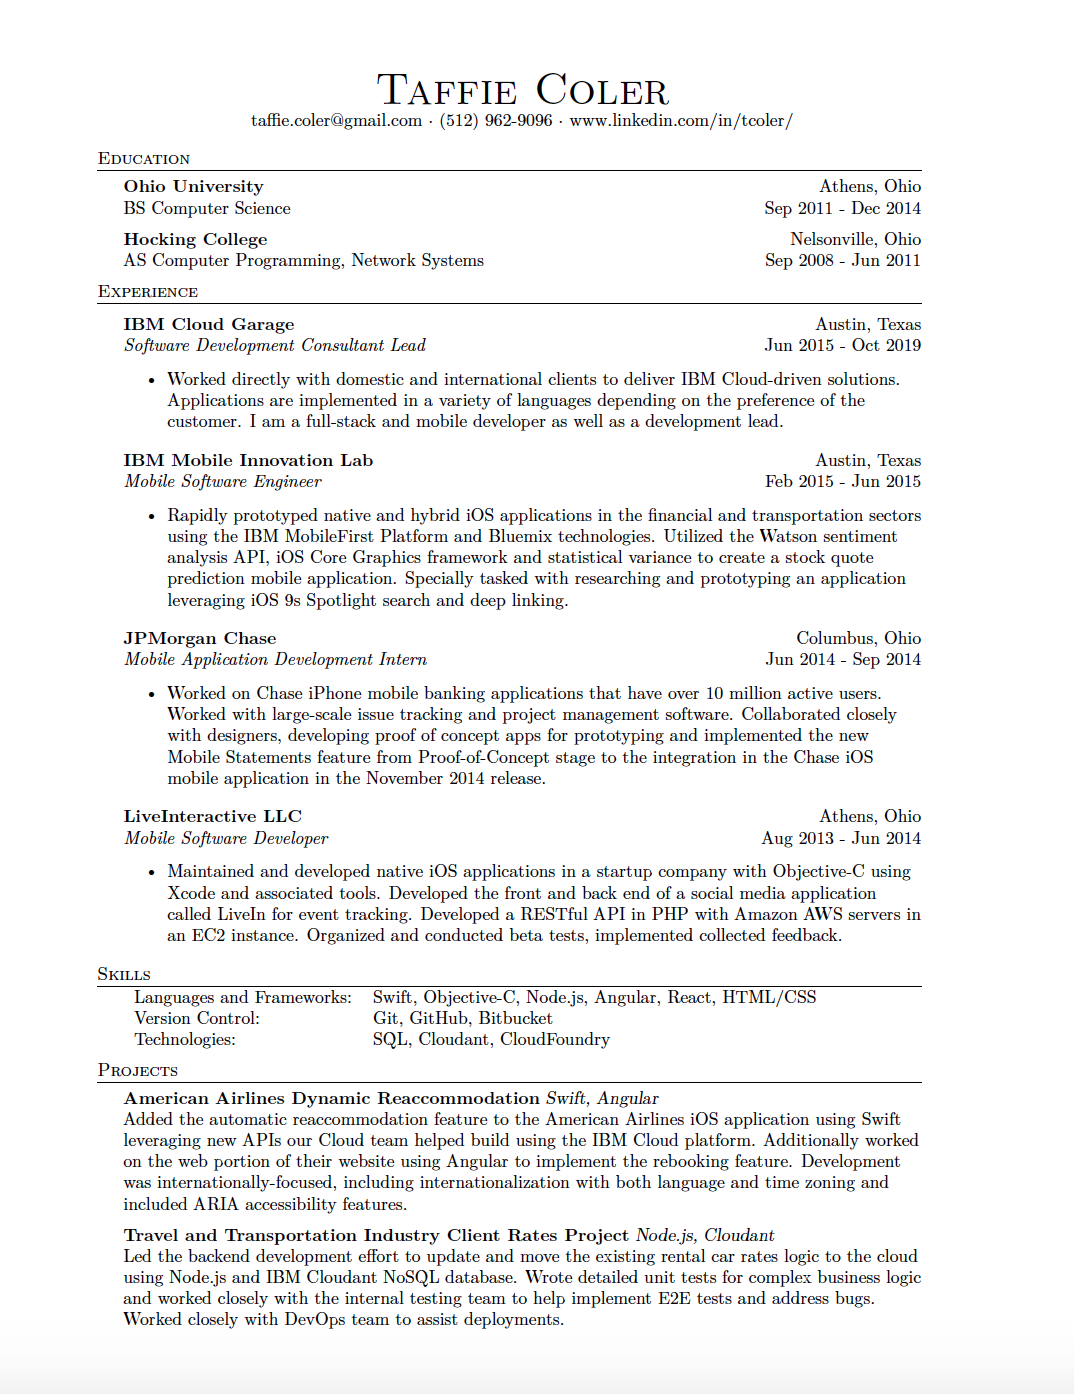
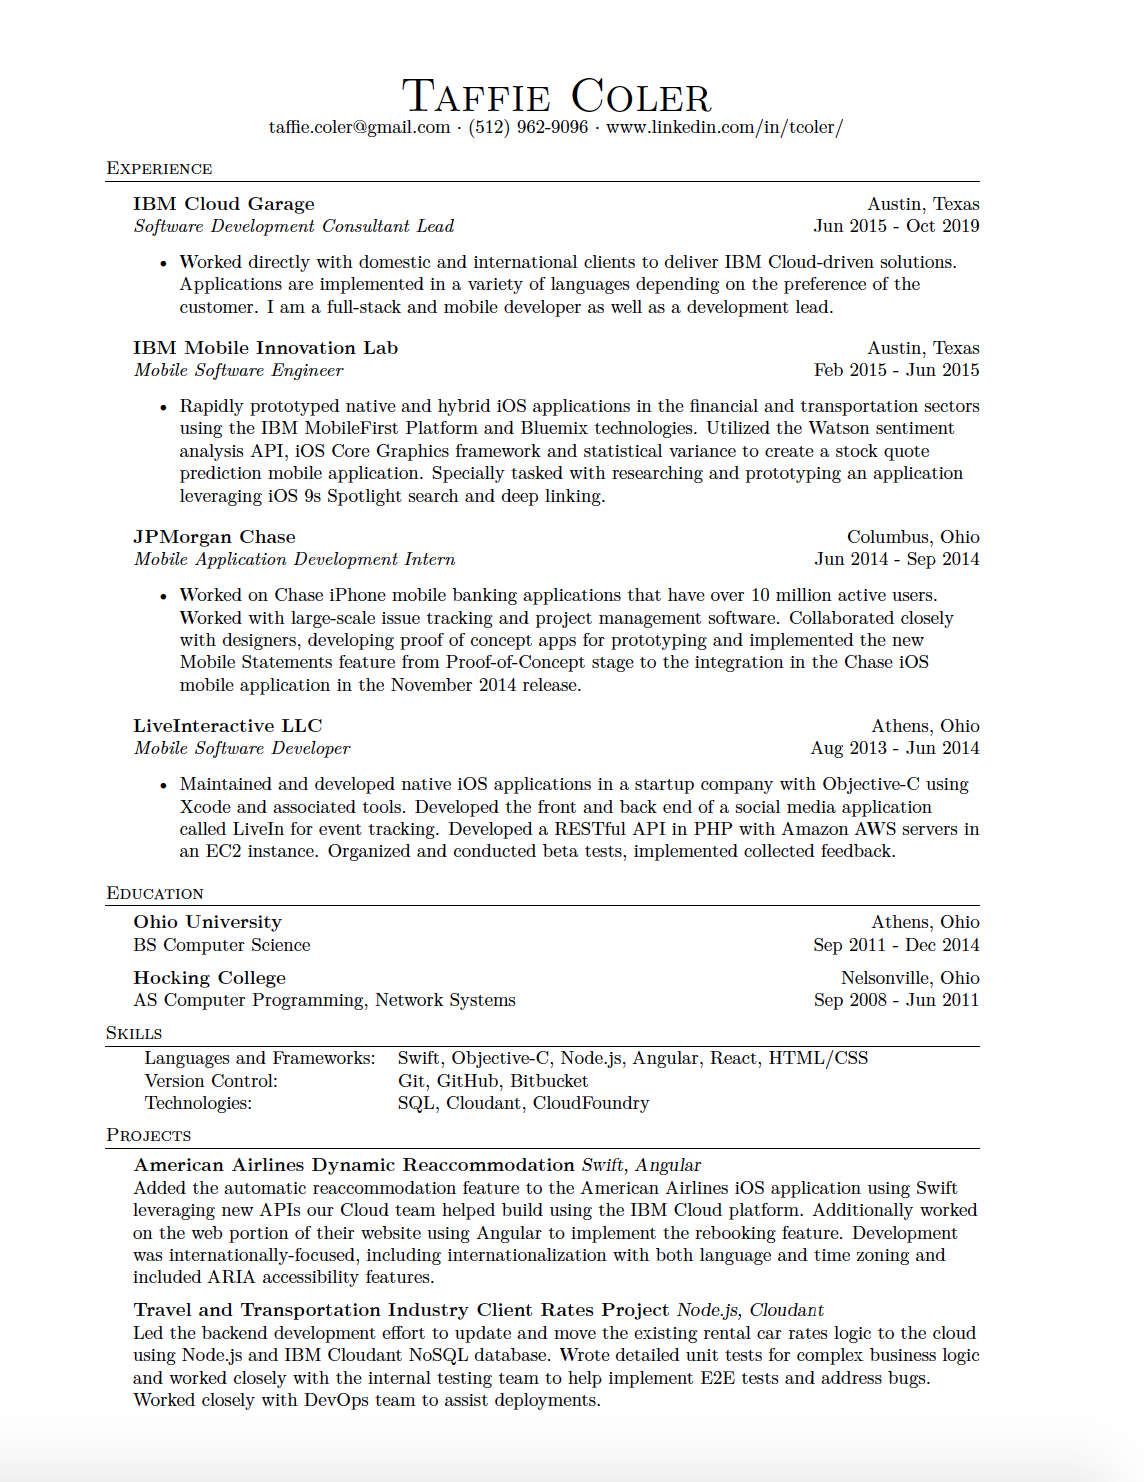
Moving experience section above education

Changed region(s): [[0.0922, 0.0925, 0.8603, 0.9562], [0.2458, 0.0617, 0.7374, 0.0925]]

diff --git a/source/coler_taffie_resume.tex b/source/coler_taffie_resume.tex
@@ -1,7 +1,5 @@
 \documentclass[a4paper]{article}
     \usepackage{fullpage}
-    \usepackage{amsmath}
-    \usepackage{amssymb}
     \usepackage{textcomp}
     \usepackage[utf8]{inputenc}
     \usepackage[T1]{fontenc}
@@ -76,15 +74,6 @@
 	taffie.coler@gmail.com $\cdot$ (512) 962-9096 $\cdot$ www.linkedin.com/in/tcoler/\\
 \end{center}
 
-%==== Education ====%
-\header{Education}
-\textbf{Ohio University}\hfill Athens, Ohio\\
-BS Computer Science \hfill Sep 2011 - Dec 2014\\
-\vspace{2mm}
-\textbf{Hocking College}\hfill Nelsonville, Ohio\\
-AS Computer Programming, Network Systems \hfill Sep 2008 - Jun 2011\\
-\vspace{2mm}
-
 %==== Experience ====%
 \header{Experience}
 \vspace{1mm}
@@ -113,6 +102,15 @@ AS Computer Programming, Network Systems \hfill Sep 2008 - Jun 2011\\
 \begin{itemize} \itemsep 1pt
 	\item Maintained and developed native iOS applications in a startup company with Objective-C using Xcode and associated tools. Developed the front and back end of a social media application called LiveIn for event tracking. Developed a RESTful API in PHP with Amazon AWS servers in an EC2 instance. Organized and conducted beta tests, implemented collected feedback.
 \end{itemize}
+
+%==== Education ====%
+\header{Education}
+\textbf{Ohio University}\hfill Athens, Ohio\\
+BS Computer Science \hfill Sep 2011 - Dec 2014\\
+\vspace{2mm}
+\textbf{Hocking College}\hfill Nelsonville, Ohio\\
+AS Computer Programming, Network Systems \hfill Sep 2008 - Jun 2011\\
+\vspace{2mm}
 
 \header{Skills}
 \begin{tabular}{ l l }
